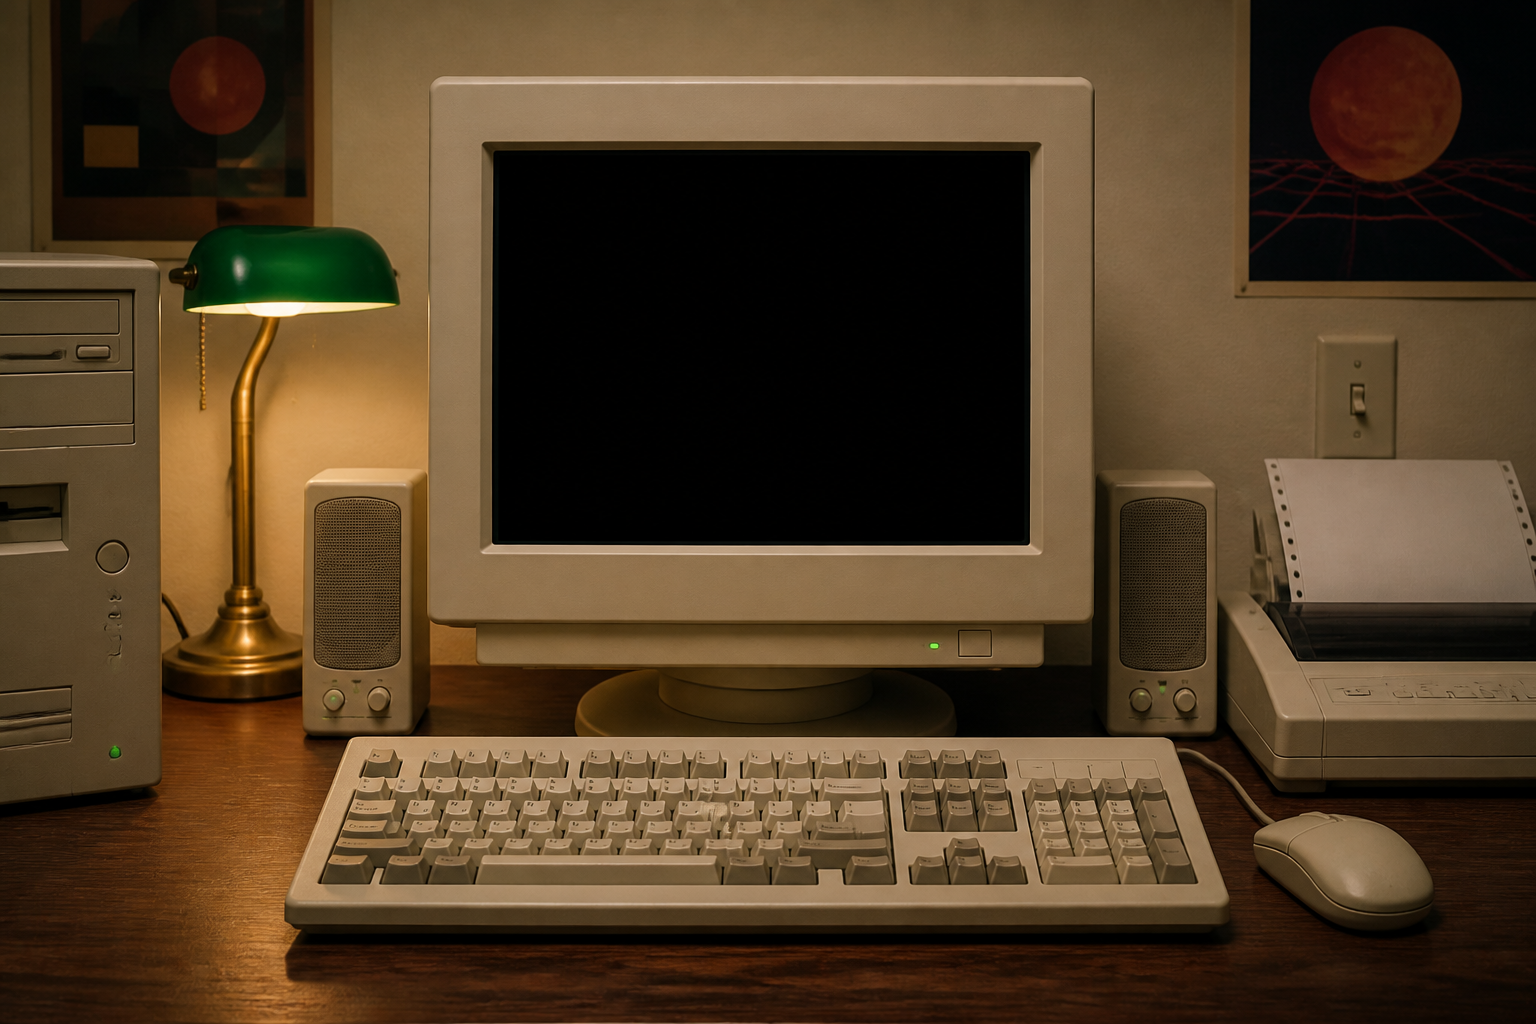
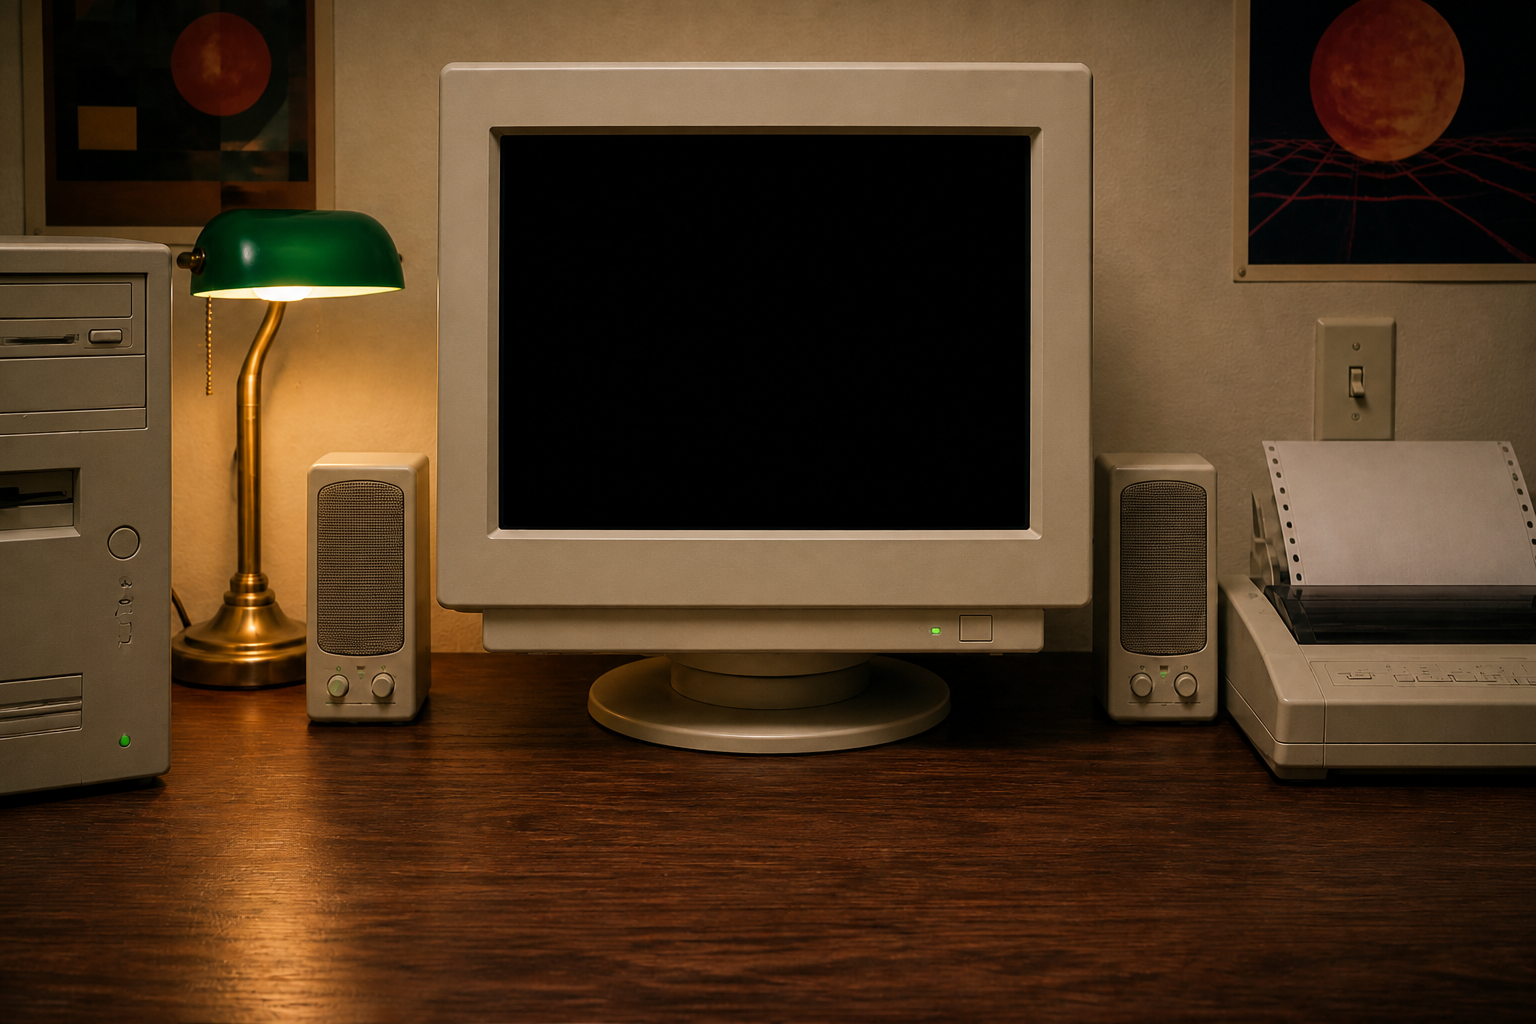
Render every desk key as an individual control
Replace the photographed keyboard with raised interactive keys and a clickable mouse deck so each key visibly depresses and mirrors physical typing.

diff --git a/app/desk-fixed.css b/app/desk-fixed.css
@@ -37,7 +37,7 @@
 
 .fixed-crt-screen {
   position: absolute;
-  top: 14.5%;
+  top: 12.8%;
   left: 32.1%;
   width: 35%;
   height: 39.15%;
@@ -91,6 +91,11 @@
 
 .biz-room-dark .room-lighting {
   background: rgba(2, 4, 7, 0.68);
+}
+
+.biz-room-dark .photo-keyboard,
+.biz-room-dark .photo-mouse {
+  filter: brightness(0.32) saturate(0.62);
 }
 
 .room-hotspot {
@@ -182,22 +187,14 @@
   }
 }
 
-.hotspot-mouse {
-  top: 77%;
-  left: 80%;
-  width: 15%;
-  height: 16%;
-  border-radius: 50%;
-}
-
 .photo-keyboard {
   position: absolute;
-  top: 71.4%;
-  left: 18.5%;
+  top: 65.5%;
+  left: 18%;
   z-index: 9;
-  width: 61.8%;
-  height: 20%;
-  transform: perspective(700px) rotateX(2deg);
+  width: 61%;
+  height: 27%;
+  perspective: 850px;
   transform-origin: top center;
 }
 
@@ -209,7 +206,16 @@
 
 .photo-keyboard .keyboard {
   box-sizing: border-box;
-  padding: 1.5% 3.5% 3%;
+  padding: 2.3% 2.4% 4%;
+  border: 1px solid #8c806f;
+  border-bottom: clamp(9px, 1.3vw, 22px) solid #6f6252;
+  border-radius: 5px;
+  background: linear-gradient(145deg, #d6ccba, #aea18d);
+  box-shadow:
+    0 clamp(7px, 1.2vw, 18px) clamp(10px, 1.7vw, 28px) rgba(0, 0, 0, 0.5),
+    inset 0 2px 2px rgba(255, 255, 255, 0.5);
+  transform: rotateX(23deg);
+  transform-origin: top center;
 }
 
 .photo-keyboard .keyboard-row {
@@ -225,32 +231,69 @@
   display: inline-block;
   box-sizing: border-box;
   width: calc(100% / 20);
-  height: 92%;
-  margin: 0;
+  height: 88%;
+  margin: 0 0.5px;
   padding: 0;
   overflow: hidden;
-  border: 1px solid transparent;
-  border-radius: 3px;
-  background: transparent;
-  color: transparent;
+  border: clamp(1px, 0.22vw, 4px) solid #f1ece3;
+  border-right-color: #a99b89;
+  border-bottom: clamp(4px, 0.62vw, 10px) solid #837565;
+  border-radius: clamp(2px, 0.3vw, 5px);
+  background: #d8d0c4;
+  box-shadow: 1px 2px 2px rgba(0, 0, 0, 0.32);
+  color: #1c1915;
+  font-family: system-ui, Tahoma, sans-serif;
+  font-weight: 600;
   vertical-align: top;
   cursor: pointer;
+  transition:
+    border-bottom-width 70ms ease,
+    transform 70ms ease,
+    background 70ms ease;
+}
+
+.photo-keyboard .keyboard-key-fn {
+  border-color: #c7beb2;
+  border-right-color: #776c5e;
+  border-bottom-color: #62574b;
+  background: #999083;
+}
+
+.photo-keyboard .keyboard-key div {
+  position: absolute;
+  right: 0;
+  bottom: 8%;
+  left: 0;
+  line-height: 0.9;
+  text-align: center;
+}
+
+.photo-keyboard .keyboard-key .kb-single,
+.photo-keyboard .keyboard-key .kb-main {
+  display: block;
+  font-size: clamp(5px, 0.58vw, 11px);
+}
+
+.photo-keyboard .keyboard-key .kb-small,
+.photo-keyboard .keyboard-key .kb-shifted {
+  display: block;
+  font-size: clamp(4px, 0.4vw, 8px);
 }
 
 .photo-keyboard .keyboard-key:hover {
-  border-color: rgba(126, 235, 255, 0.78);
-  background: rgba(96, 219, 255, 0.2);
-  box-shadow: 0 0 7px rgba(83, 221, 255, 0.54);
+  border-bottom-width: clamp(2px, 0.35vw, 6px);
+  background: #e8e0d4;
 }
 
 .photo-keyboard .keyboard-key:active,
 .photo-keyboard .keyboard-key-pressed {
-  border-color: rgba(119, 255, 190, 0.95);
-  background: rgba(60, 255, 148, 0.38);
+  border-width: 1px;
+  border-color: #786d60;
+  background: #b4a795;
   box-shadow:
-    inset 0 2px 3px rgba(0, 0, 0, 0.38),
-    0 0 9px rgba(54, 255, 147, 0.75);
-  transform: translateY(2px);
+    inset 0 3px 5px rgba(0, 0, 0, 0.42),
+    0 0 7px rgba(110, 244, 198, 0.5);
+  transform: translateY(clamp(2px, 0.45vw, 7px));
 }
 
 .photo-keyboard .keyboard-key-esc { width: calc(100% / 15.7); }
@@ -264,6 +307,104 @@
 .photo-keyboard .keyboard-key-alt { width: calc(100% / 12); }
 .photo-keyboard .keyboard-key-space { width: calc(100% / 2.05); }
 .photo-keyboard .keyboard-key-delete { width: calc(100% / 15); }
+
+.photo-mouse {
+  position: absolute;
+  top: 69%;
+  left: 80%;
+  z-index: 9;
+  width: 15%;
+  height: 22%;
+  perspective: 700px;
+}
+
+.photo-mouse .desk-mouse-pad {
+  position: relative;
+  width: 100%;
+  height: 100%;
+  transform: rotateX(20deg) rotateZ(3deg);
+  transform-origin: top center;
+}
+
+.photo-mouse .desk-mousemat {
+  position: absolute;
+  inset: 0;
+  display: flex;
+  align-items: center;
+  justify-content: center;
+  overflow: hidden;
+  border-radius: 7px;
+  background:
+    radial-gradient(circle at 24% 23%, #ff5b8d 0 12%, transparent 13%),
+    radial-gradient(circle at 72% 69%, #2fdbc9 0 18%, transparent 19%),
+    repeating-linear-gradient(135deg, transparent 0 12px, rgba(255,255,255,0.1) 13px 14px),
+    linear-gradient(135deg, #24134f, #127d77);
+  box-shadow: 0 9px 16px rgba(0, 0, 0, 0.42);
+}
+
+.photo-mouse .desk-mousemat-art {
+  color: rgba(255, 255, 255, 0.88);
+  font: clamp(10px, 1.5vw, 25px) Impact, sans-serif;
+  letter-spacing: 0.08em;
+  text-shadow: 2px 2px rgba(0, 0, 0, 0.4);
+  transform: rotate(-9deg);
+}
+
+.photo-mouse .desk-mouse-unit {
+  position: absolute;
+  top: 18%;
+  left: 50%;
+  width: 42%;
+  height: 65%;
+  padding: 0;
+  border: 0;
+  background: transparent;
+  transform: translateX(-50%);
+  cursor: pointer;
+}
+
+.photo-mouse .desk-mouse-top {
+  position: absolute;
+  inset: 0;
+  border: 1px solid #756f64;
+  border-radius: 48% 48% 28% 28% / 58% 58% 25% 25%;
+  background: linear-gradient(120deg, #eee9df, #aaa294 72%);
+  box-shadow:
+    inset 4px 3px rgba(255, 255, 255, 0.5),
+    0 7px 9px rgba(0, 0, 0, 0.42);
+}
+
+.photo-mouse .desk-mouse-buttons {
+  position: absolute;
+  top: 4%;
+  right: 7%;
+  left: 7%;
+  display: flex;
+  gap: 2px;
+  height: 35%;
+}
+
+.photo-mouse .desk-mouse-btn {
+  flex: 1;
+  border: 1px solid #938c80;
+  border-radius: 18px 18px 2px 2px;
+  background: linear-gradient(#f8f4ec, #c0b8aa);
+}
+
+.photo-mouse .desk-mouse-unit:active {
+  transform: translateX(-50%) translateY(3px);
+}
+
+.photo-mouse .desk-mouse-ball {
+  position: absolute;
+  bottom: 8%;
+  left: 50%;
+  width: 18%;
+  aspect-ratio: 1;
+  border-radius: 50%;
+  background: radial-gradient(circle at 30% 30%, #777, #181818);
+  transform: translateX(-50%);
+}
 
 .room-notice {
   position: absolute;

diff --git a/components/monitor/MonitorSetup.tsx b/components/monitor/MonitorSetup.tsx
@@ -3,6 +3,7 @@
 import { useEffect, useRef, useState } from 'react';
 import type { ReactNode } from 'react';
 import { DeskKeyboard } from '@/components/desk/DeskKeyboard';
+import { DeskMouse } from '@/components/desk/DeskMouse';
 import { DeskToolbar } from '@/components/desk/DeskToolbar';
 import { playSound } from '@/lib/sounds';
 
@@ -100,18 +101,11 @@ export function MonitorSetup({
             setTimeout(() => setPrinting(false), 1600);
           }}
         />
-        <button
-          type="button"
-          className="room-hotspot hotspot-mouse"
-          aria-label="Click desk mouse"
-          title="Mouse"
-          onClick={() => {
-            playSound('mouse');
-            showNotice('Click!');
-          }}
-        />
         <div className="photo-keyboard">
           <DeskKeyboard onAnyKey={onDeskActivity} />
+        </div>
+        <div className="photo-mouse">
+          <DeskMouse />
         </div>
 
         <section

diff --git a/components/desk/DeskMouse.tsx b/components/desk/DeskMouse.tsx
@@ -4,7 +4,7 @@ import { playSound } from '@/lib/sounds';
 
 export function DeskMouse() {
   return (
-    <div className="desk-mouse-pad" aria-hidden>
+    <div className="desk-mouse-pad">
       <div className="desk-mousemat">
         <span className="desk-mousemat-art">BIZ</span>
       </div>
